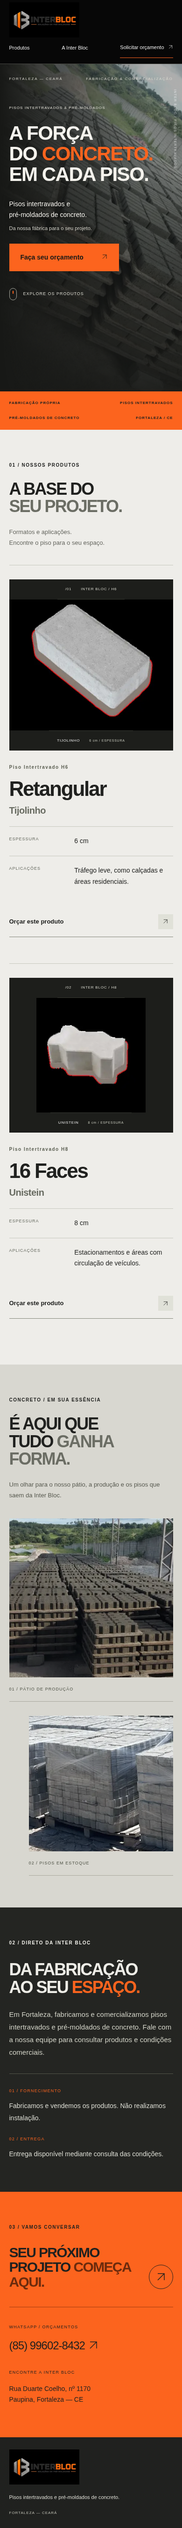
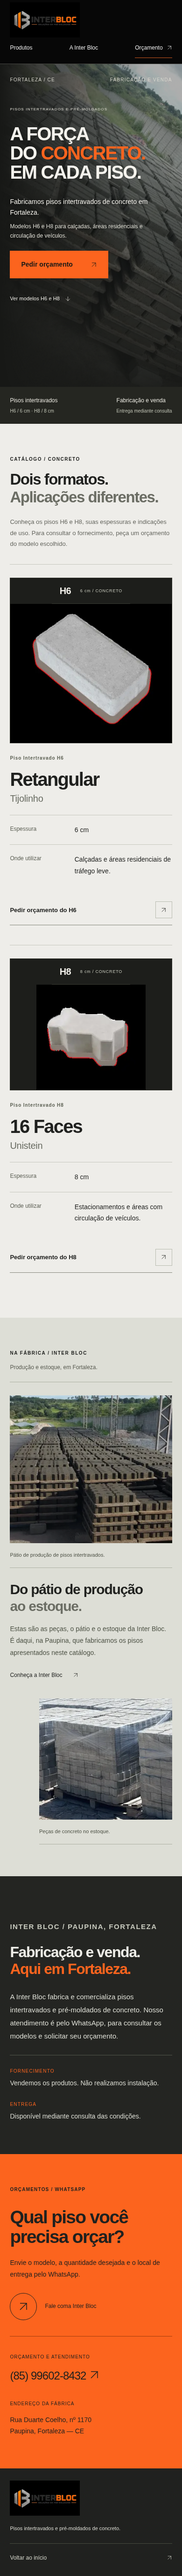
refine: give Inter Bloc a product-led editorial presentation

diff --git a/src/app/page.tsx b/src/app/page.tsx
@@ -2,13 +2,32 @@ import Image from "next/image";
 import { ScrollReveals } from "@/components/scroll-reveals";
 
 const whatsapp = "https://wa.me/5585996028432";
+const quote = `${whatsapp}?text=${encodeURIComponent("Olá! Gostaria de solicitar um orçamento de pisos intertravados da Inter Bloc.")}`;
 const products = [
-  { id: "h6", code: "01", name: "Retangular", model: "Tijolinho", thickness: "6 cm", title: "Piso Intertravado H6", use: "Tráfego leve, como calçadas e áreas residenciais.", image: "/images/piso-h6-tijolinho.png", alt: "Piso intertravado H6 retangular, modelo tijolinho", width: 768, height: 768 },
-  { id: "h8", code: "02", name: "16 Faces", model: "Unistein", thickness: "8 cm", title: "Piso Intertravado H8", use: "Estacionamentos e áreas com circulação de veículos.", image: "/images/piso-h8-unistein.png", alt: "Piso intertravado H8 de 16 faces, modelo Unistein", width: 300, height: 300 },
+  {
+    id: "h6", name: "Retangular", model: "Tijolinho", thickness: "6 cm",
+    title: "Piso Intertravado H6",
+    use: "Calçadas e áreas residenciais de tráfego leve.",
+    image: "/images/piso-h6-tijolinho.png",
+    alt: "Piso intertravado H6 retangular, modelo tijolinho",
+    width: 768, height: 768,
+  },
+  {
+    id: "h8", name: "16 Faces", model: "Unistein", thickness: "8 cm",
+    title: "Piso Intertravado H8",
+    use: "Estacionamentos e áreas com circulação de veículos.",
+    image: "/images/piso-h8-unistein.png",
+    alt: "Piso intertravado H8 de 16 faces, modelo Unistein",
+    width: 300, height: 300,
+  },
 ];
 
 function Arrow() {
-  return <svg className="arrow-icon" viewBox="0 0 24 24" fill="none" stroke="currentColor" strokeWidth="1.5" aria-hidden="true"><path d="M5 19 19 5M5 5h14v14" /></svg>;
+  return (
+    <svg className="arrow-icon" viewBox="0 0 24 24" fill="none" stroke="currentColor" strokeWidth="1.5" aria-hidden="true">
+      <path d="M5 19 19 5M5 5h14v14" />
+    </svg>
+  );
 }
 
 export default function Home() {
@@ -17,31 +36,111 @@ export default function Home() {
       <ScrollReveals />
       <a href="#conteudo" className="skip-link">Pular para o conteúdo</a>
       <header className="site-header">
-        <a href="#inicio" className="brand" aria-label="Inter Bloc — início"><Image src="/images/logo-interbloc.png" alt="INTER BLOC — Soluções em pré-moldados" width={1600} height={800} className="official-logo" preload /></a>
-        <nav aria-label="Navegação principal"><a href="#produtos">Produtos</a><a href="#sobre">A Inter Bloc</a><a className="nav-quote" href={whatsapp}>Solicitar orçamento <span aria-hidden="true"><Arrow /></span></a></nav>
+        <a href="#inicio" className="brand" aria-label="Inter Bloc — início">
+          <Image src="/images/logo-interbloc.png" alt="INTER BLOC — Soluções em pré-moldados" width={1600} height={800} className="official-logo" preload />
+        </a>
+        <nav aria-label="Navegação principal">
+          <a href="#produtos">Produtos</a>
+          <a href="#sobre">A Inter Bloc</a>
+          <a className="nav-quote" href={quote}>Orçamento <Arrow /></a>
+        </nav>
       </header>
       <main id="conteudo">
         <section id="inicio" className="hero" aria-labelledby="hero-title">
-          <div className="hero-top"><span>FORTALEZA — CEARÁ</span><span>FABRICAÇÃO & COMERCIALIZAÇÃO</span></div>
-          <p className="hero-kicker">PISOS INTERTRAVADOS & PRÉ-MOLDADOS</p>
+          <div className="hero-top"><span>FORTALEZA / CE</span><span>FABRICAÇÃO E VENDA</span></div>
+          <p className="hero-kicker">PISOS INTERTRAVADOS E PRÉ-MOLDADOS</p>
           <h1 id="hero-title">A FORÇA<br />DO <span>CONCRETO.</span><br />EM CADA PISO.</h1>
-          <div className="hero-bottom"><p className="hero-description">Pisos intertravados e<br />pré-moldados de concreto.<br /><span>Da nossa fábrica para o seu projeto.</span></p><a className="button" href={whatsapp}>Faça seu orçamento <span aria-hidden="true"><Arrow /></span></a><a className="explore" href="#produtos"><span className="scroll-indicator" aria-hidden="true" /> EXPLORE OS PRODUTOS</a></div>
-          <div className="hero-art"><Image src="/images/pilhas-pisos-intertravados.png" alt="Pilhas de pisos intertravados no pátio da Inter Bloc" fill sizes="(max-width: 800px) 100vw, 65vw" preload className="hero-photo" /><span className="photo-caption">INTER BLOC / PISOS INTERTRAVADOS</span></div>
+          <div className="hero-bottom">
+            <p className="hero-description">Fabricamos pisos intertravados de concreto em Fortaleza.<span>Modelos H6 e H8 para calçadas, áreas residenciais e circulação de veículos.</span></p>
+            <a className="button" href={quote}>Pedir orçamento <Arrow /></a>
+            <a className="explore" href="#produtos">Ver modelos H6 e H8 <Arrow /></a>
+          </div>
+          <div className="hero-art">
+            <Image src="/images/pilhas-pisos-intertravados.png" alt="Pilhas de pisos intertravados no pátio da Inter Bloc" fill sizes="(max-width: 800px) 100vw, 65vw" preload className="hero-photo" />
+          </div>
         </section>
-        <div className="service-strip"><span>FABRICAÇÃO PRÓPRIA</span><span>PISOS INTERTRAVADOS</span><span>PRÉ-MOLDADOS DE CONCRETO</span><span>FORTALEZA / CE</span></div>
+
+        <div className="service-strip">
+          <p>Pisos intertravados <span>H6 / 6 cm · H8 / 8 cm</span></p>
+          <p>Fabricação e venda <span>Entrega mediante consulta</span></p>
+        </div>
+
         <section id="produtos" className="catalog section-pad" aria-labelledby="products-title">
-          <div className="section-heading"><p className="eyebrow">01 / NOSSOS PRODUTOS</p><h2 id="products-title" data-reveal>A BASE DO<br /><span>SEU PROJETO.</span></h2><p data-reveal data-delay="1">Formatos e aplicações.<br />Encontre o piso para o seu espaço.</p></div>
-          {products.map((product) => <article id={product.id} className="product" key={product.id}><div className={`product-visual product-visual-${product.id}`} data-reveal>
-              <div className="visual-heading"><span>/{product.code}</span><span>INTER BLOC / {product.id.toUpperCase()}</span></div>
-              <div className="product-stage"><Image src={product.image} alt={product.alt} width={product.width} height={product.height} sizes={product.id === "h8" ? "300px" : "(max-width: 800px) 110vw, 60vw"} className={`product-photo product-photo-${product.id}`} /></div>
-              <div className="visual-caption"><span>{product.model}</span><span>{product.thickness} / ESPESSURA</span></div>
-            </div><div className="product-info"><p className="eyebrow" data-reveal>{product.title}</p><h3 data-reveal data-delay="1">{product.name}<span>{product.model}</span></h3><dl><div data-reveal data-delay="1"><dt>ESPESSURA</dt><dd>{product.thickness}</dd></div><div data-reveal data-delay="2"><dt>APLICAÇÕES</dt><dd>{product.use}</dd></div></dl><a className="text-link" data-reveal data-delay="2" href={`${whatsapp}?text=${encodeURIComponent(`Olá! Gostaria de solicitar um orçamento para ${product.title} — ${product.name}.`)}`}>Orçar este produto <span aria-hidden="true"><Arrow /></span></a></div></article>)}
+          <div className="section-heading">
+            <div><p className="eyebrow">CATÁLOGO / CONCRETO</p><h2 id="products-title" data-reveal>Dois formatos.<br /><span>Aplicações diferentes.</span></h2></div>
+            <p className="catalog-intro" data-reveal data-delay="1">Conheça os pisos H6 e H8, suas espessuras e indicações de uso. Para consultar o fornecimento, peça um orçamento do modelo escolhido.</p>
+          </div>
+          {products.map((product) => (
+            <article id={product.id} className="product" key={product.id} aria-labelledby={`${product.id}-title`}>
+              <div className={`product-visual product-visual-${product.id}`} data-reveal>
+                <div className="visual-heading"><span>{product.id.toUpperCase()}</span><span>{product.thickness} / CONCRETO</span></div>
+                <div className="product-stage">
+                  <Image src={product.image} alt={product.alt} width={product.width} height={product.height} sizes={product.id === "h8" ? "300px" : "(max-width: 800px) 110vw, 60vw"} className={`product-photo product-photo-${product.id}`} />
+                </div>
+              </div>
+              <div className="product-info">
+                <p className="eyebrow" data-reveal>{product.title}</p>
+                <h3 id={`${product.id}-title`} data-reveal data-delay="1">{product.name}<span>{product.model}</span></h3>
+                <dl>
+                  <div data-reveal data-delay="1"><dt>Espessura</dt><dd>{product.thickness}</dd></div>
+                  <div data-reveal data-delay="2"><dt>Onde utilizar</dt><dd>{product.use}</dd></div>
+                </dl>
+                <a className="text-link" data-reveal data-delay="2" href={`${whatsapp}?text=${encodeURIComponent(`Olá! Gostaria de solicitar um orçamento para ${product.title} — ${product.name}.`)}`}>
+                  Pedir orçamento do {product.id.toUpperCase()} <span><Arrow /></span>
+                </a>
+              </div>
+            </article>
+          ))}
         </section>
-        <section className="factory section-pad" aria-labelledby="factory-title"><div className="factory-intro"><p className="eyebrow">CONCRETO / EM SUA ESSÊNCIA</p><h2 id="factory-title" data-reveal>É AQUI QUE<br />TUDO <span>GANHA FORMA.</span></h2><p data-reveal data-delay="1">Um olhar para o nosso pátio, a produção e os pisos que saem da Inter Bloc.</p></div><div className="factory-grid"><figure className="factory-wide" data-reveal><div className="factory-photo"><Image src="/images/patio-producao-intertravados.png" alt="Pátio de produção de pisos intertravados da Inter Bloc" fill sizes="(max-width: 800px) 90vw, 50vw" /></div><figcaption>01 / PÁTIO DE PRODUÇÃO</figcaption></figure><figure data-reveal data-delay="1"><div className="factory-photo"><Image src="/images/estoque-blocos-concreto.png" alt="Pisos de concreto empilhados e embalados em paletes" fill sizes="(max-width: 800px) 90vw, 30vw" /></div><figcaption>02 / PISOS EM ESTOQUE</figcaption></figure></div></section>
-        <section id="sobre" className="about section-pad" aria-labelledby="about-title"><p className="eyebrow">02 / DIRETO DA INTER BLOC</p><div><h2 id="about-title" data-reveal>DA FABRICAÇÃO<br />AO SEU <span>ESPAÇO.</span></h2><p data-reveal data-delay="1">Em Fortaleza, fabricamos e comercializamos pisos intertravados e pré-moldados de concreto. Fale com a nossa equipe para consultar produtos e condições comerciais.</p><div className="conditions"><p data-reveal data-delay="1"><span>01 / FORNECIMENTO</span>Fabricamos e vendemos os produtos. Não realizamos instalação.</p><p data-reveal data-delay="2"><span>02 / ENTREGA</span>Entrega disponível mediante consulta das condições.</p></div></div></section>
-        <section id="contato" className="contact section-pad" aria-labelledby="contact-title"><p className="eyebrow">03 / VAMOS CONVERSAR</p><div className="contact-heading"><h2 id="contact-title" data-reveal>SEU PRÓXIMO<br />PROJETO <span>COMEÇA AQUI.</span></h2><a className="round-link" data-reveal data-delay="1" href={whatsapp} aria-label="Solicitar orçamento pelo WhatsApp"><Arrow /></a></div><div className="contact-details" data-reveal data-delay="2"><a href={whatsapp}><span>WHATSAPP / ORÇAMENTOS</span>(85) 99602-8432 <Arrow /></a><address><span>ENCONTRE A INTER BLOC</span>Rua Duarte Coelho, nº 1170<br />Paupina, Fortaleza — CE</address></div></section>
+
+        <section id="fabricacao" className="factory section-pad" aria-labelledby="factory-title">
+          <div className="factory-intro"><p className="eyebrow">NA FÁBRICA / INTER BLOC</p><p>Produção e estoque, em Fortaleza.</p></div>
+          <div className="factory-grid">
+            <figure className="factory-wide" data-reveal>
+              <div className="factory-photo"><Image src="/images/patio-producao-intertravados.png" alt="Pátio de produção de pisos intertravados da Inter Bloc" fill sizes="(max-width: 800px) 90vw, 44vw" /></div>
+              <figcaption>Pátio de produção de pisos intertravados.</figcaption>
+            </figure>
+            <div className="factory-side">
+              <div className="factory-copy">
+                <h2 id="factory-title" data-reveal>Do pátio de produção<br /><span>ao estoque.</span></h2>
+                <p data-reveal data-delay="1">Estas são as peças, o pátio e o estoque da Inter Bloc. É daqui, na Paupina, que fabricamos os pisos apresentados neste catálogo.</p>
+                <a className="factory-link" href="#sobre">Conheça a Inter Bloc <Arrow /></a>
+              </div>
+              <figure data-reveal data-delay="1">
+                <div className="factory-photo"><Image src="/images/estoque-blocos-concreto.png" alt="Pisos de concreto empilhados e embalados em paletes" fill sizes="(max-width: 800px) 75vw, 28vw" /></div>
+                <figcaption>Peças de concreto no estoque.</figcaption>
+              </figure>
+            </div>
+          </div>
+        </section>
+
+        <section id="sobre" className="about section-pad" aria-labelledby="about-title">
+          <div className="about-heading"><p className="eyebrow">INTER BLOC / PAUPINA, FORTALEZA</p><h2 id="about-title" data-reveal>Fabricação e venda.<br /><span>Aqui em Fortaleza.</span></h2></div>
+          <div className="about-copy">
+            <p data-reveal data-delay="1">A Inter Bloc fabrica e comercializa pisos intertravados e pré-moldados de concreto. Nosso atendimento é pelo WhatsApp, para consultar os modelos e solicitar seu orçamento.</p>
+            <div className="conditions">
+              <p data-reveal data-delay="1"><span>FORNECIMENTO</span>Vendemos os produtos. Não realizamos instalação.</p>
+              <p data-reveal data-delay="2"><span>ENTREGA</span>Disponível mediante consulta das condições.</p>
+            </div>
+          </div>
+        </section>
+
+        <section id="contato" className="contact section-pad" aria-labelledby="contact-title">
+          <p className="eyebrow">ORÇAMENTOS / WHATSAPP</p>
+          <div className="contact-heading">
+            <div><h2 id="contact-title" data-reveal>Qual piso você<br />precisa orçar?</h2><p className="contact-instructions" data-reveal data-delay="1">Envie o modelo, a quantidade desejada e o local de entrega pelo WhatsApp.</p></div>
+            <div className="contact-action" data-reveal data-delay="1"><a className="round-link" href={quote} aria-label="Solicitar orçamento pelo WhatsApp"><Arrow /></a><p>Fale com<br />a Inter Bloc</p></div>
+          </div>
+          <div className="contact-details" data-reveal data-delay="2">
+            <a href={quote}><span>ORÇAMENTO E ATENDIMENTO</span>(85) 99602-8432 <Arrow /></a>
+            <address><span>ENDEREÇO DA FÁBRICA</span>Rua Duarte Coelho, nº 1170<br />Paupina, Fortaleza — CE</address>
+          </div>
+        </section>
       </main>
-      <footer><a href="#inicio" className="brand" aria-label="Inter Bloc — início"><Image src="/images/logo-interbloc.png" alt="INTER BLOC" width={1600} height={800} className="official-logo footer-logo" /></a><p>Pisos intertravados e pré-moldados de concreto.</p><span>FORTALEZA — CEARÁ</span></footer>
+      <footer>
+        <a href="#inicio" className="brand" aria-label="Inter Bloc — início"><Image src="/images/logo-interbloc.png" alt="INTER BLOC" width={1600} height={800} className="official-logo footer-logo" /></a>
+        <p>Pisos intertravados e pré-moldados de concreto.</p><a className="footer-top" href="#inicio">Voltar ao início <Arrow /></a>
+      </footer>
     </>
   );
 }

diff --git a/src/app/globals.css b/src/app/globals.css
@@ -238,3 +238,122 @@ footer>span { color: #c2c3b7; }
   .hero-photo,.hero-top,.hero-kicker,.hero h1,.hero-description,.hero-bottom .button,.explore,.reveal-entered { animation: none; }
   .button,.round-link,.text-link,.text-link>span,.site-header nav a::after,.arrow-icon,.product-photo,.factory-photo img { transition: none; }
 }
+
+/* Review: product-led copy and a less repetitive editorial rhythm. */
+.site-header { padding-inline: 5.5%; }
+.site-header .official-logo { width: 194px; height: 97px; }
+.site-header nav { font-size: 13px; gap: 34px; }
+.site-header .nav-quote { border-bottom-color: #ce591f; }
+.hero { padding-inline: 5.5%; min-height: 730px; }
+.hero-top { font-size: 10px; letter-spacing: .12em; }
+.hero-kicker { letter-spacing: .15em; }
+.hero h1 { letter-spacing: -.043em; line-height: 1.025; }
+.hero-bottom { grid-template-columns: minmax(0,1.15fr) auto minmax(0,.85fr); gap: 36px; }
+.hero-bottom .hero-description { max-width: 340px; font-size: 15px; line-height: 1.65; }
+.hero-bottom .hero-description span { font-size: 12px; line-height: 1.7; margin-top: 8px; max-width: 310px; color: #e0dfd6; }
+.explore { font-size: 11px; letter-spacing: .01em; gap: 12px; justify-self: end; color: #f0eee8; }
+.explore .arrow-icon { rotate: 135deg; }
+.service-strip { padding: 22px 5.5%; background: #252621; color: #ebe9e1; gap: 36px; align-items: start; font-size: 12px; font-weight: 400; letter-spacing: 0; }
+.service-strip p { display: flex; gap: 22px; align-items: baseline; }
+.service-strip p>span { font-size: 11px; color: #bfc2b4; }
+.section-pad { padding-inline: 5.5%; }
+.section-heading { grid-template-columns: minmax(0,1.2fr) minmax(0,.8fr); gap: 10%; align-items: end; margin-bottom: 45px; }
+.section-heading .eyebrow { margin-bottom: 22px; }
+.section-heading h2 { font-size: clamp(36px,3.8vw,58px); line-height: 1.12; font-weight: 650; letter-spacing: -.045em; }
+.section-heading>.catalog-intro { max-width: 335px; font-size: 14px; line-height: 1.85; align-self: end; color: #55594d; }
+.product { grid-template-columns: minmax(0,1.1fr) minmax(0,1fr); gap: 9%; padding-block: 38px; }
+.product+.product { margin-top: 10px; }
+.product:nth-of-type(even) { grid-template-columns: minmax(0,1fr) minmax(0,1fr); }
+.product-visual { min-width: 0; border: 1px solid #34362e; }
+.visual-heading { padding: 13px 20px; font-size: 10px; letter-spacing: .08em; }
+.visual-heading>span:first-child { font-size: 22px; letter-spacing: -.04em; font-weight: 600; color: #f0eee8; }
+.visual-heading>span:last-child { color: #c8cabd; font-size: 9px; }
+.product-stage { height: clamp(300px,31vw,410px); }
+.product-photo-h6 { width: min(120%,680px); }
+.product-visual-h8 { max-width: 360px; margin-right: 5%; }
+.product-visual-h8 .product-stage { height: 215px; }
+.product-info { max-width: 430px; }
+.product-info .eyebrow { letter-spacing: .09em; }
+.product-info h3 { font-size: clamp(38px,3.6vw,54px); letter-spacing: -.045em; line-height: 1.05; margin-block: 16px 28px; }
+.product-info h3 span { font-size: 20px; font-weight: 400; margin-top: 10px; letter-spacing: -.015em; }
+.product-info dt { text-transform: none; letter-spacing: 0; font-size: 12px; color: #5b5e53; }
+.product-info dd { font-size: 14px; line-height: 1.75; }
+.text-link { margin-top: 20px; padding-block: 14px; }
+.text-link>span { width: 36px; height: 36px; background: transparent; border: 1px solid #b8bcb0; }
+.factory { background: #ddded6; }
+.factory-intro { display: flex; justify-content: space-between; align-items: baseline; gap: 24px; border-bottom: 1px solid #aeb2a4; padding-bottom: 20px; }
+.factory-intro>p:last-child { font-size: 12px; align-self: auto; }
+.factory-grid { grid-template-columns: minmax(0,1.25fr) minmax(0,1fr); gap: 9%; margin-top: 40px; align-items: start; }
+.factory-wide .factory-photo { height: auto; aspect-ratio: 1.1; }
+.factory-grid .factory-side figure { padding: 0; margin-top: 44px; max-width: 320px; margin-left: auto; }
+.factory-side .factory-photo { height: auto; aspect-ratio: 1.1; }
+.factory-copy { padding-top: 12px; }
+.factory-copy h2 { font-size: clamp(28px,2.65vw,40px); font-weight: 600; line-height: 1.2; letter-spacing: -.04em; }
+.factory-copy>p { max-width: 360px; margin-top: 23px; font-size: 14px; line-height: 1.85; color: #4d5245; }
+.factory-link { display: inline-flex; align-items: center; gap: 22px; min-height: 44px; font-size: 12px; margin-top: 16px; }
+.factory-photo img { filter: saturate(.85); }
+figcaption { font-size: 11px; letter-spacing: 0; line-height: 1.6; border-color: #aeb2a4; }
+.about { grid-template-columns: minmax(0,1fr) minmax(0,.9fr); gap: 12%; align-items: start; }
+.about-heading>.eyebrow { margin-bottom: 28px; color: #c6c8bc; }
+.about h2 { font-size: clamp(34px,3.4vw,52px); font-weight: 600; line-height: 1.14; letter-spacing: -.045em; }
+.about .about-copy>p { margin: 0 0 32px; font-size: 16px; line-height: 1.85; color: #dedfd6; }
+.conditions { grid-template-columns: 1fr; gap: 24px; padding-top: 25px; }
+.conditions p { max-width: 100%; font-size: 14px; line-height: 1.7; }
+.conditions span { letter-spacing: .12em; font-size: 10px; margin-bottom: 6px; }
+.contact .eyebrow { margin-bottom: 30px; letter-spacing: .12em; }
+.contact-heading { align-items: center; gap: 50px; }
+.contact h2 { font-size: clamp(42px,4.8vw,72px); font-weight: 650; line-height: 1.07; letter-spacing: -.045em; }
+.contact-instructions { max-width: 390px; margin-top: 24px; font-size: 15px; line-height: 1.8; }
+.contact-action { display: flex; gap: 25px; align-items: center; padding-right: 5%; flex-shrink: 0; }
+.contact-action p { font-size: 13px; line-height: 1.6; }
+.contact .round-link { width: 88px; height: 88px; font-size: 42px; }
+.contact-details { grid-template-columns: minmax(0,1.2fr) minmax(0,1fr); gap: 40px; }
+.contact-details a { font-size: 26px; letter-spacing: -.04em; }
+.contact-details span { font-size: 10px; letter-spacing: .1em; }
+.contact-details address { font-size: 14px; }
+footer { padding-inline: 5.5%; }
+.footer-top { min-height: 44px; display: inline-flex; align-items: center; gap: 12px; font-size: 12px; color: #d4d6ca; }
+@media (min-width: 801px) and (max-width: 1050px) {
+  .hero-bottom { grid-template-columns: minmax(0,1fr) auto; }.explore { grid-column: 1 / -1; justify-self: start; }
+  .section-heading { gap: 8%; }.catalog-intro { grid-column: auto; }
+  .product,.product:nth-of-type(even) { gap: 6%; }
+  .factory-grid { gap: 7%; }.about { gap: 8%; }
+  .contact-action { padding: 0; gap: 14px; }.contact .round-link { width: 72px; height: 72px; }
+}
+@media (max-width: 800px) {
+  .site-header { gap: 0; }.site-header .official-logo { width: 150px; height: 75px; }
+  .site-header nav { gap: 18px; font-size: 12px; }
+  .hero { min-height: 690px; }.hero h1 { font-size: clamp(38px,10.3vw,82px); letter-spacing: -.045em; }
+  .hero-bottom { grid-template-columns: minmax(0,1fr); gap: 21px; }
+  .hero-bottom .hero-description { max-width: 325px; font-size: 14px; }.hero-bottom .hero-description span { font-size: 12px; }
+  .explore { justify-self: start; width: auto; }
+  .service-strip { gap: 18px; padding-block: 20px; font-size: 12px; }
+  .service-strip p { display: block; }.service-strip p>span { display: block; margin-top: 6px; font-size: 10px; }
+  .section-heading { grid-template-columns: minmax(0,1fr); gap: 23px; margin-bottom: 32px; }
+  .section-heading .eyebrow { margin-bottom: 16px; }.section-heading h2 { font-size: clamp(33px,8.2vw,48px); line-height: 1.14; }
+  .section-heading>.catalog-intro { max-width: 360px; grid-column: auto; }
+  .product,.product:nth-of-type(even) { grid-template-columns: minmax(0,1fr); gap: 24px; padding-block: 28px; }
+  .product+.product { margin-top: 14px; }
+  .product-stage { height: clamp(270px,76vw,400px); }.product-photo-h6 { width: min(128%,680px); }
+  .product-visual-h8 { max-width: 100%; margin-right: 0; }.product-visual-h8 .product-stage { height: 225px; }
+  .visual-heading { padding: 12px 17px; }.visual-heading>span:first-child { font-size: 20px; }
+  .product-info { max-width: 100%; }.product-info h3 { font-size: 40px; margin-block: 16px 24px; }
+  .factory-intro { display: block; }.factory-intro>p:last-child { margin-top: 12px; }
+  .factory-grid { grid-template-columns: minmax(0,1fr); gap: 28px; margin-top: 28px; }
+  .factory-copy { padding-top: 0; }.factory-copy h2 { font-size: 30px; }
+  .factory-grid .factory-side figure { width: 82%; max-width: 340px; margin-top: 28px; }
+  .factory-copy>p { max-width: 100%; margin-top: 18px; }.factory-link { margin-top: 12px; }
+  .about { grid-template-columns: minmax(0,1fr); gap: 28px; }.about h2 { font-size: clamp(32px,8vw,46px); }
+  .about-heading>.eyebrow { margin-bottom: 23px; }.about .about-copy>p { font-size: 15px; margin-bottom: 27px; }
+  .contact-heading { display: block; }.contact h2 { font-size: clamp(38px,10vw,54px); }
+  .contact-instructions { font-size: 14px; margin-top: 22px; }
+  .contact-action { gap: 17px; margin-top: 27px; padding: 0; }.contact .round-link { width: 58px; height: 58px; font-size: 30px; }
+  .contact-action p br { display: none; }.contact-action p { font-size: 12px; }
+  .contact-details { grid-template-columns: minmax(0,1fr); gap: 25px; margin-top: 34px; }
+  .contact-details a { font-size: 24px; }
+  footer .footer-top { width: 100%; justify-content: space-between; border-top: 1px solid #474b3e; padding-top: 16px; margin-top: 4px; }
+}
+@media (max-width: 360px) {
+  .site-header nav { gap: 12px; font-size: 11px; }.hero h1 { font-size: 10.8vw; }
+  .service-strip { column-gap: 18px; }.service-strip p>span { font-size: 9px; }
+}

diff --git a/docs/editorial-review.md b/docs/editorial-review.md
@@ -1,0 +1,36 @@
+# Revisão editorial e comercial — Inter Bloc
+
+Proposta na branch `feat/editorial-refinement`, baseada na produção `4ae7c40`. A incorporação à `main` depende de aprovação desta revisão. Não houve alteração da configuração de produção da Vercel.
+
+## Diagnóstico e refinamento
+
+A versão anterior repetia slogans e uma mesma organização de título grande, descrição e fotografia. A revisão preserva o hero, as seções, a identidade industrial e os ativos oficiais, mas dá às demais seções tarefas e composições distintas.
+
+- Hero: título principal preservado; descrição identifica fabricação, localização e modelos. CTA direto para orçamento e navegação para o catálogo, sem o indicador decorativo de mouse.
+- Catálogo: títulos e informações mais fáceis de escanear, rótulos repetidos removidos e painéis ajustados ao enquadramento real de cada imagem. O H8 permanece limitado a 300 px. Os botões identificam o modelo e mantêm mensagens específicas no WhatsApp.
+- Fábrica: a fotografia de produção abre a composição; texto e fotografia de estoque dividem uma coluna lateral. As legendas descrevem o que é mostrado, sem slogans ou sequências numéricas decorativas.
+- Institucional: título de menor escala e conteúdo de fornecimento em coluna própria. Fabricação e venda, ausência de instalação e entrega mediante consulta continuam explícitas.
+- Contato: chamada concreta para orçamento e instruções para enviar modelo, quantidade e local de entrega. Número e endereço oficiais preservados.
+- Navegação: feedback existente mantido; retorno ao início no rodapé. Mesma lógica de animações acessíveis, sem novas bibliotecas.
+
+## Verificações executadas
+
+- `npm run lint`, `npm run build`, `npm run typecheck` e `git diff --check`: passaram.
+- Chromium com Playwright: desktop 1440 px e mobile emulado com toque 390 px; navegação interna, estados de hover, imagens carregadas, textos alternativos e links de WhatsApp H6/H8.
+- Responsividade adicional em 320, 768, 1024 e 1920 px: sem rolagem horizontal ou extravasamento do h1.
+- Verificação geométrica dos recortes: peças H6 e H8 completas dentro dos painéis.
+- Sequência do hero e 26 elementos com revelação por interseção; preferência por movimento reduzido, incluindo mudança durante a sessão.
+- Conteúdo visível sem JavaScript, sem Intersection Observer e com falha simulada no observer.
+- Axe-core: nenhuma violação nas regras WCAG 2 A/AA e 2.1 AA executadas em desktop e mobile. Essa verificação automatizada não substitui avaliação manual completa com leitores de tela.
+- Os dez PNG oficiais e o favicon são idênticos aos arquivos da versão de produção `4ae7c40`. Nenhuma dependência foi adicionada.
+
+## Limitação das imagens
+
+A fotografia H8 tem 300 × 300 px, incluindo seu fundo; a peça ocupa uma área menor no arquivo. O painel foi compactado para valorizá-la sem ampliar artificialmente a imagem. As fotos de produção e estoque também têm resolução limitada; os originais não foram editados, substituídos ou recriados.
+
+## Capturas da proposta
+
+- [Desktop — 1440 px](previews/desktop.png)
+- [Mobile — 390 px](previews/mobile.png)
+
+As capturas não mostram as animações. Para revisão interativa, use uma Preview Deployment da branch `feat/editorial-refinement` na Vercel. A `main` continua sendo a versão de produção aprovada anteriormente.

diff --git a/README.md b/README.md
@@ -57,3 +57,7 @@ A segunda etapa preserva a estrutura do site, os produtos e as fotografias ofici
 - O catálogo mantém as fotos originais: H6 recebe um enquadramento mais próximo; H8 fica limitado a 300 px e não recebe zoom no hover. Não há reconstrução, recoloração ou ampliação artificial dos arquivos.
 
 As capturas em `docs/previews/` correspondem ao refinamento atual. Consulte [a validação da etapa](docs/refinement-validation.md) para o escopo dos testes.
+
+## Nova revisão editorial — aguardando aprovação
+
+A branch `feat/editorial-refinement` contém uma proposta de refinamento dos textos, hierarquia e composição das seções, sem alterar o título principal, o logotipo ou as fotografias oficiais. Ela não foi incorporada à produção. Consulte [o resumo e a validação desta revisão](docs/editorial-review.md). As capturas `docs/previews/desktop.png` e `mobile.png` nesta branch mostram a nova proposta.
